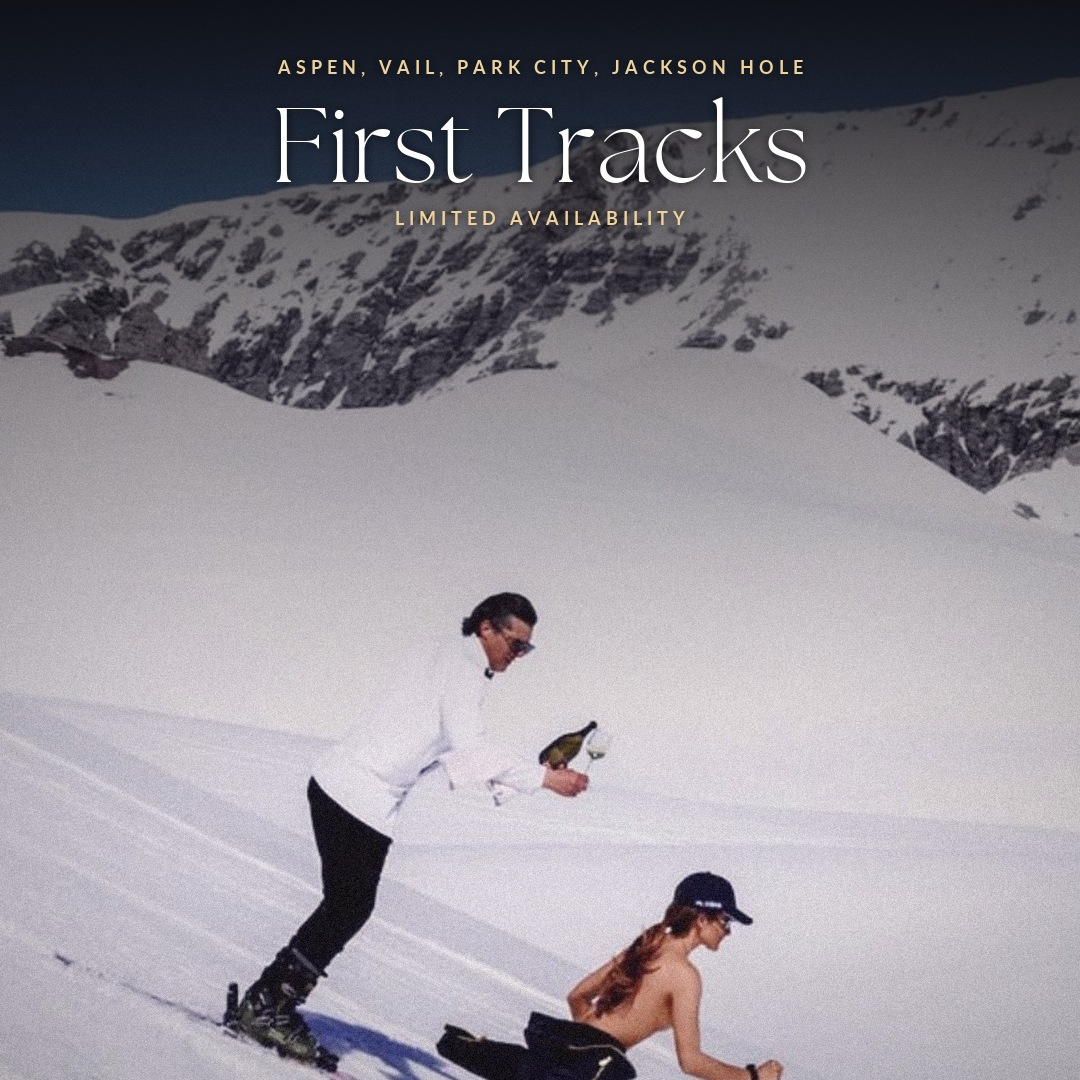
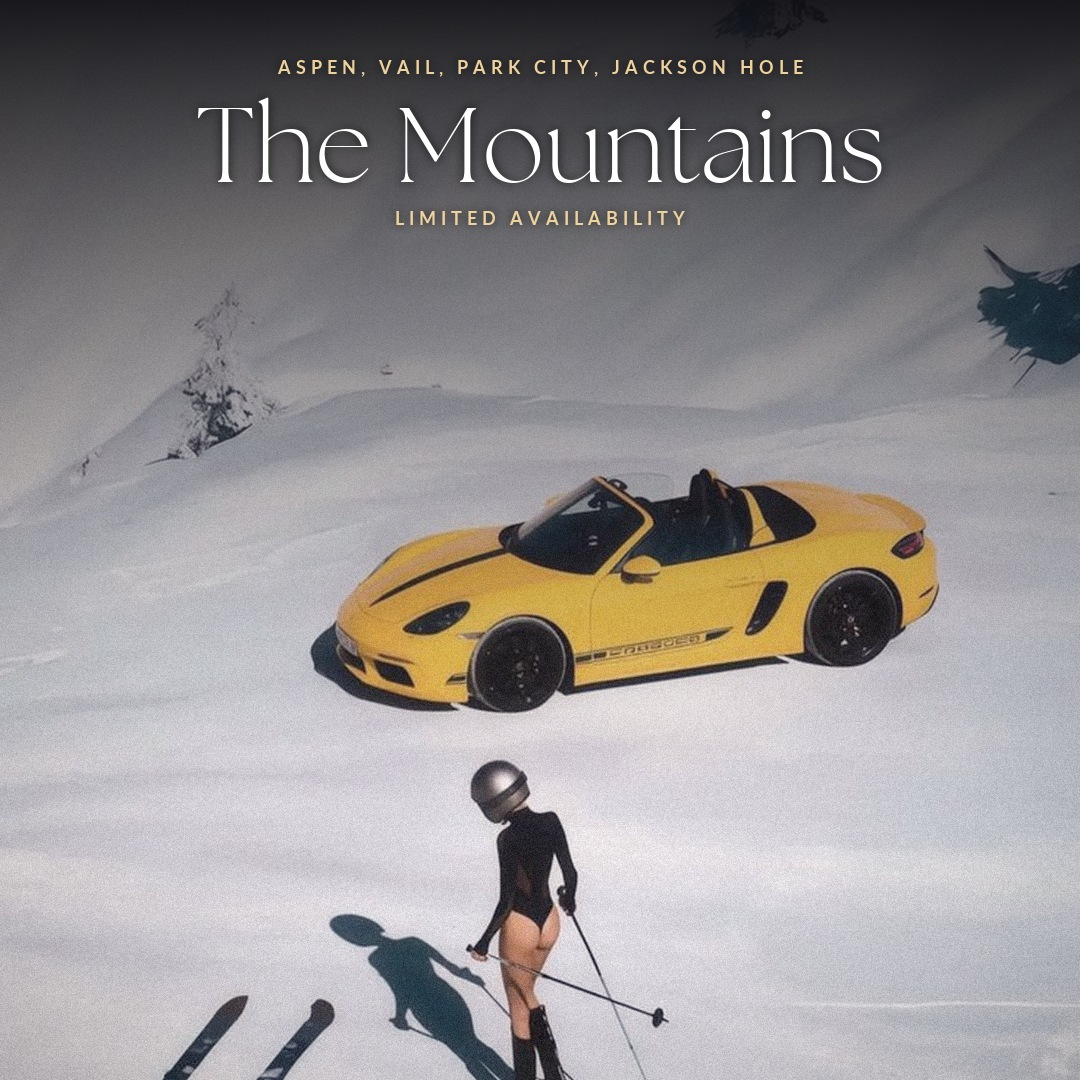
Ski USA ad 2: The Mountains (yellow Porsche) replaces First Tracks

diff --git a/marketing/stories/fullpic.py b/marketing/stories/fullpic.py
@@ -94,7 +94,7 @@ CAMPAIGNS={
  'ski-usa':[
   ('ski-usa-01','art/ski-jet-coat.jpg','THE AMERICAN MOUNTAINS','Ski Season',["Aspen, Vail, Telluride,","Park City, Jackson Hole."],T,
    dict(ax=0.5,top=330,grad=190,gend=0.5),260,dict(ax=0.5,ytop=50,grad=190,gend=0.6),dict(ax=0.5,ay=0.0,ytop=-1,dim=80)),
-  ('ski-usa-02','art/ski-champagne-run.jpg','ASPEN, VAIL, PARK CITY, JACKSON HOLE','First Tracks',[],T,
+  ('ski-usa-02','art/ski-yellow-porsche.jpg','ASPEN, VAIL, PARK CITY, JACKSON HOLE','The Mountains',[],T,
    dict(ax=0.5,ay=0.0,top=330,grad=240,gend=0.75,logo=False),230,dict(ax=0.5,ay=0.0,ytop=60,grad=240,gend=0.85,logo=False),dict(ax=0.5,ay=0.0,ytop=50,grad=180,gend=0.8,logo=False)),
  ],
  'golf-usa':[
